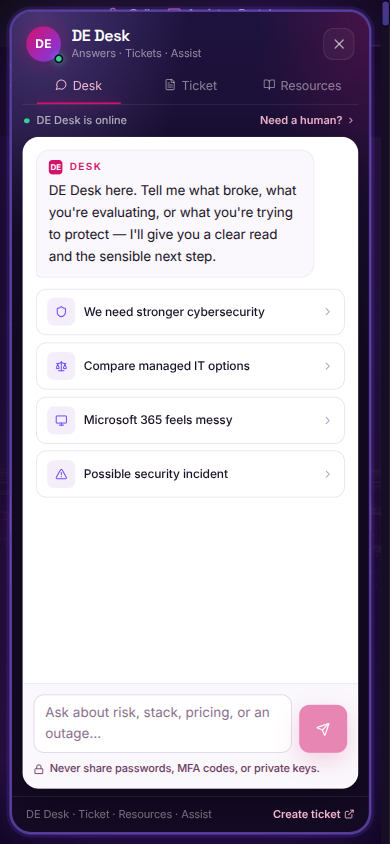
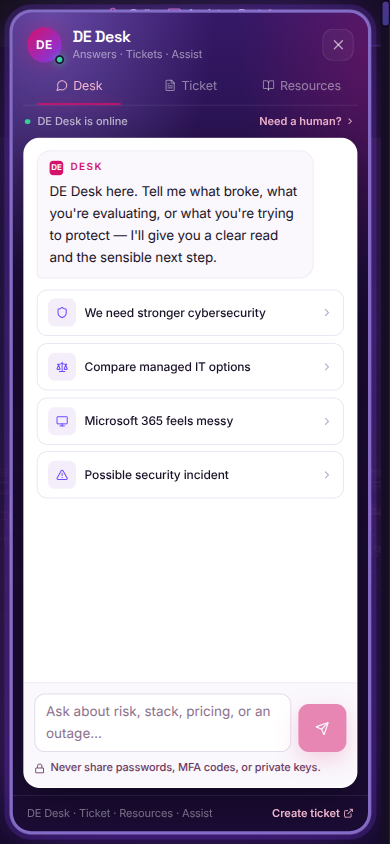
Sync DE Desk shell tokens with the violet frame treatment.

diff --git a/.cursor/skills/de-desk-ui/tokens-and-structure.md b/.cursor/skills/de-desk-ui/tokens-and-structure.md
@@ -6,15 +6,15 @@
 |-------|-------|-----|
 | Magenta | `#D3126A` | Primary CTA, active underline glow, user bubbles, brand mark |
 | Violet | `#5B45E0` / `#7c3aed` | Secondary accents, ticket submit gradient start |
-| Shell bg | `#140a24` | Modal background (deep purple, not flat black) |
+| Shell bg | `#1a0b33` | Modal background (deep violet, not flat black) |
 | Nested dark | `#12141c` / `#171922` | Ticket & Resources panels / cards |
 | Nested light | `#ffffff` / `#faf8fc` | Desk chat panel |
 | Online | Emerald glow on status dot | Availability |
 | Text light-on-dark | `white` / `white/65` / `white/45` | Hierarchy on dark |
 | Text dark-on-light | `#1a1228` / `#5A3A5E` / plum secondary | Desk chat body |
 
-Shell border/glow: cool purple frame `border-2 border-[#8B5CF6]/55` on deep purple shell
-`bg-[#140a24]` + violet outer ring/glow (not flat near-black).
+Shell border/glow: cool purple frame `border-[3px] border-[#A78BFA]/75` on deep violet shell
+`bg-[#1a0b33]` + lavender outer ring/glow (not flat near-black).
 
 ## Shared chrome (top → bottom)
 
